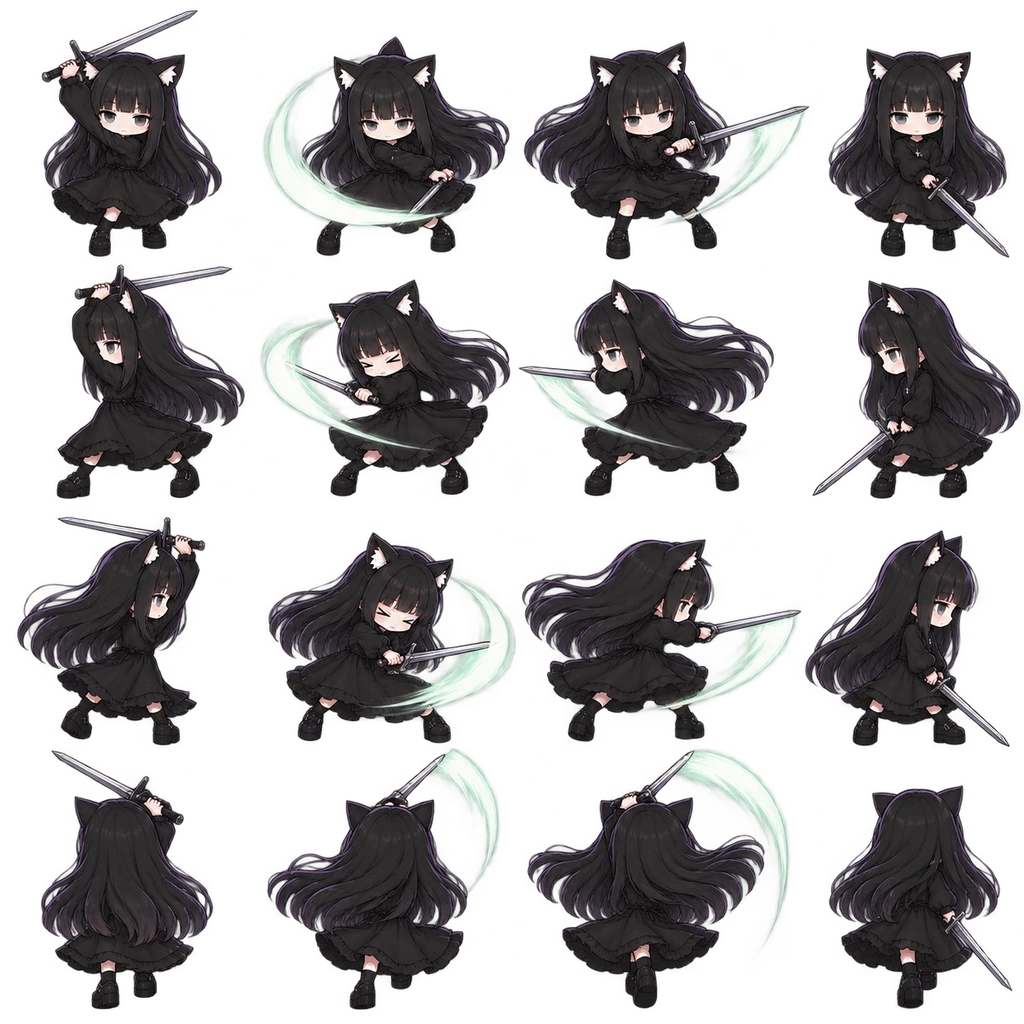
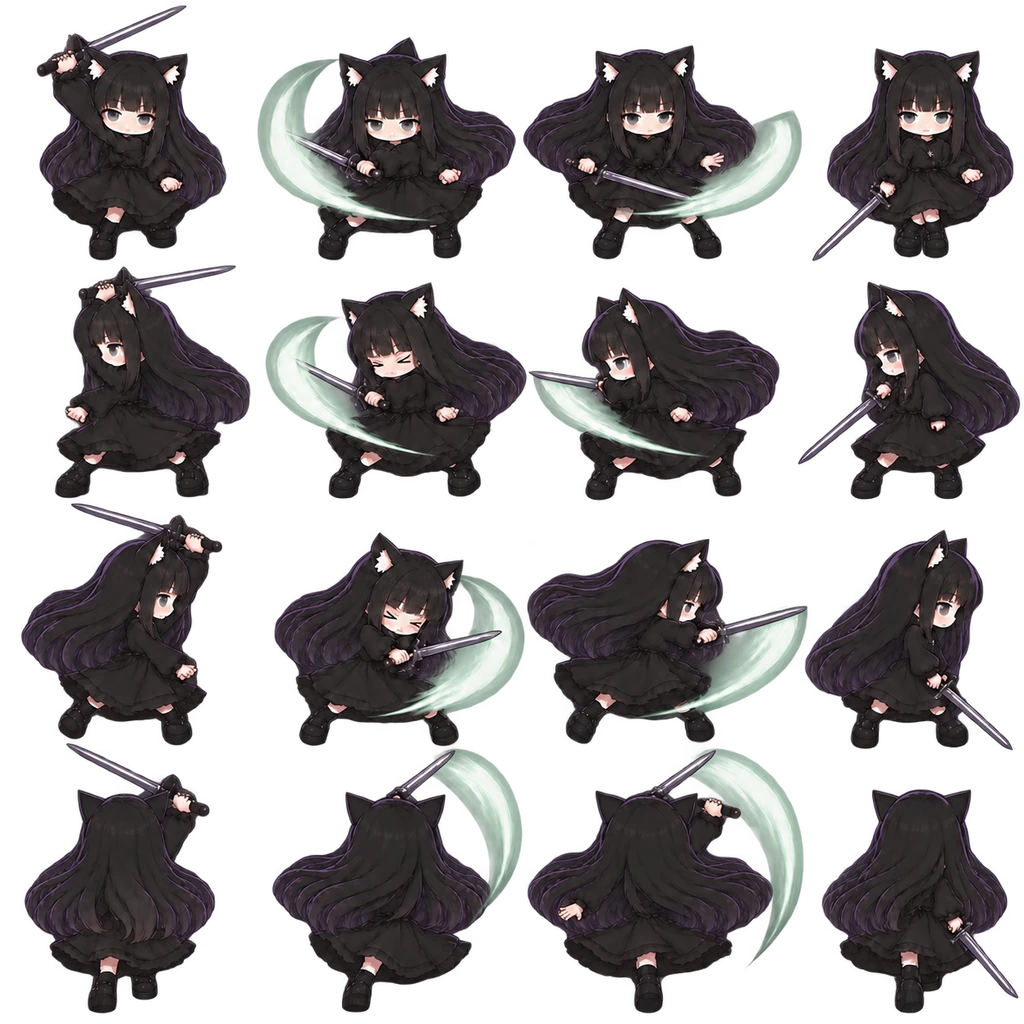
fix(game): 统一 Wand 2 精灵右手持剑并移除镜像步态

diff --git a/src/games/wand2/render.ts b/src/games/wand2/render.ts
@@ -67,10 +67,8 @@ export function render(ctx: CanvasRenderingContext2D, assets: Assets, ground: HT
       const recoil = p.hurt > 570;
       const walk = Math.floor(now / 130) % 4;
       const col = recoil ? 3 : p.moving ? [0, 1, 0, 2][walk] : 0;
-      // 左右行的第三帧使用反向侧面，翻转同侧步态保持朝向一致。
-      if (!attack && !recoil && (p.facing === 1 || p.facing === 2) && col === 2) {
-        ctx.translate(x, 0); ctx.scale(-1, 1); sprite(ctx, assets.character, 1, p.facing === 1 ? 2 : 1, 0, y + 4, 88);
-      } else sprite(ctx, attack ? assets.attack : assets.character, attack ? Math.min(3, Math.floor((ATTACK_MS - attack) / (ATTACK_MS / 4))) : col, p.facing, x, y + 4, attack ? 96 : 88);
+      // 各方向直接使用对应原绘帧；镜像会把角色的右手持剑翻成左手。
+      sprite(ctx, attack ? assets.attack : assets.character, attack ? Math.min(3, Math.floor((ATTACK_MS - attack) / (ATTACK_MS / 4))) : col, p.facing, x, y + 4, attack ? 96 : 88);
       ctx.restore();
       if (attack > 100 && attack < 280) {
         const dir = DIRECTIONS[p.facing], angle = Math.atan2(dir.y, dir.x);
